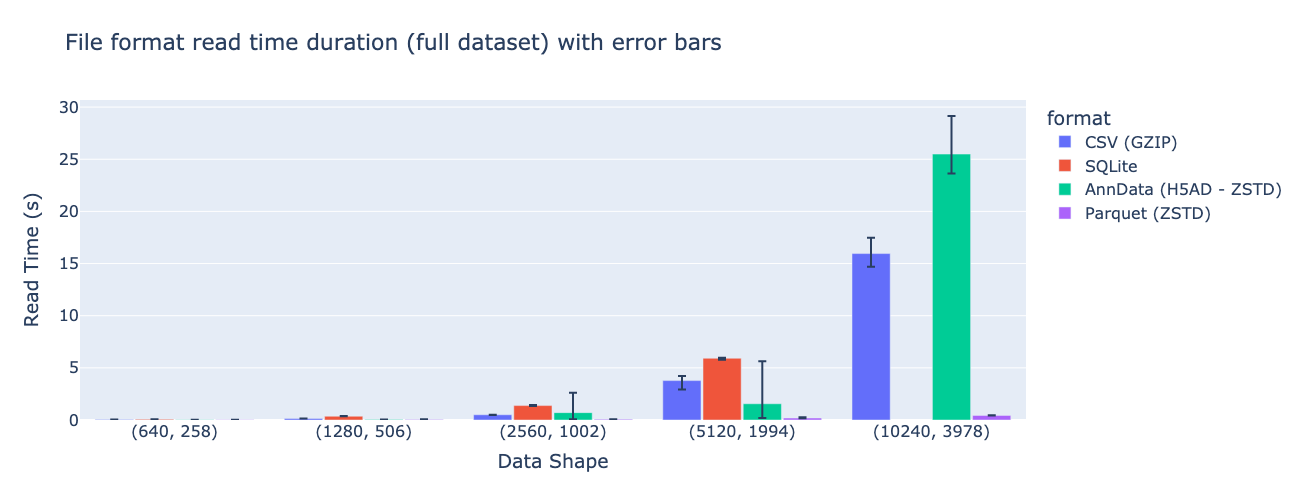
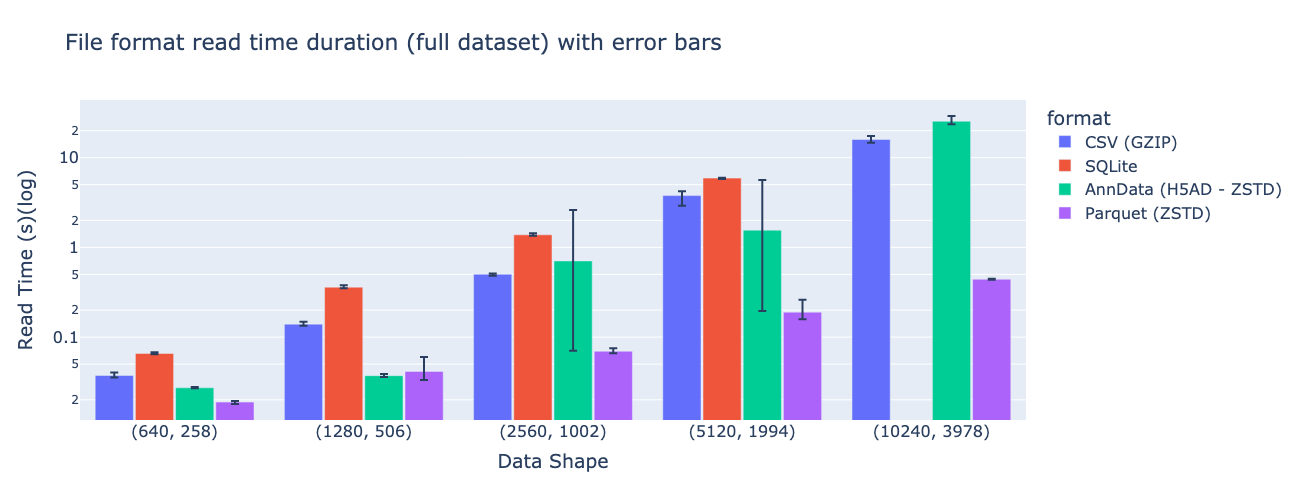
updated plot titles

diff --git a/notebooks/parquet_analysis.py b/notebooks/parquet_analysis.py
@@ -1245,9 +1245,10 @@ fig = px.bar(
     error_y="err_plus",   # max - mean
     error_y_minus="err_minus",  # mean - min
    category_orders={key: rev_order, "format": list(cols.keys())},
-    labels={key: "Data Shape", "mean": "Read Time (s)"},
+    labels={key: "Data Shape", "mean": "Read Time (s)(log)"},
     width=1300,
     title="File format read time duration (full dataset) with error bars",
+    log_y=True
 )
 
 # Styling (no markers in bar charts)
@@ -1261,7 +1262,7 @@ fig.update_layout(
 )
 
 
-pio.write_image(fig, (img_file := file_read_time_all_image.replace(".png", "-reduced-nonfacet.png")))
+pio.write_image(fig, (img_file := file_read_time_all_image.replace(".png", "-reduced-nonfacet-bar.png")))
 Image(url=img_file)
 
 # + papermill={"duration": 0.260285, "end_time": "2025-09-03T21:57:22.537386", "exception": false, "start_time": "2025-09-03T21:57:22.277101", "status": "completed"}
@@ -1521,3 +1522,86 @@ generate_format_comparison_plot(
     save_file=file_read_time_write_and_read_time_image.replace(".png", "-reduced.png"),
 )
 Image(url=file_read_time_write_and_read_time_image.replace(".png", "-reduced.png"))
+
+# +
+key = "dataframe_shape (rows, cols)"
+
+# Use your reduced set (adjust if you want more/less)
+cols = {
+    "CSV (GZIP)": (
+        "csv_write_and_read_time (secs) mean",
+        "csv_write_and_read_time (secs) min",
+        "csv_write_and_read_time (secs) max",
+    ),
+    "SQLite": (
+        "sqlite_write_and_read_time (secs) mean",
+        "sqlite_write_and_read_time (secs) min",
+        "sqlite_write_and_read_time (secs) max",
+    ),
+    "AnnData (H5AD - ZSTD)": (
+        "anndata_h5ad_zstd_write_and_read_time (secs) mean",
+        "anndata_h5ad_zstd_write_and_read_time (secs) min",
+        "anndata_h5ad_zstd_write_and_read_time (secs) max",
+    ),
+    "Parquet (ZSTD)": (
+        "parquet_zstd_write_and_read_time (secs) mean",
+        "parquet_zstd_write_and_read_time (secs) min",
+        "parquet_zstd_write_and_read_time (secs) max",
+    ),
+}
+
+# Build long dataframe with mean/min/max → error bars
+records = []
+for fmt, (mean_col, min_col, max_col) in cols.items():
+    tmp = result[[key, mean_col, min_col, max_col]].copy()
+    tmp["format"] = fmt
+    tmp.rename(
+        columns={mean_col: "mean", min_col: "min", max_col: "max"},
+        inplace=True,
+    )
+    records.append(tmp)
+
+long = pd.concat(records, ignore_index=True).dropna(subset=["mean"])
+
+# Error bars: distance from mean to max/min
+long["err_plus"] = (long["max"] - long["mean"]).clip(lower=0)
+long["err_minus"] = (long["mean"] - long["min"]).clip(lower=0)
+
+# Preserve your original x ordering (reversed)
+x_order = result[key].iloc[::-1].drop_duplicates().tolist()
+pos = {cat: i for i, cat in enumerate(x_order)}
+long_sorted = long.assign(xpos=long[key].map(pos)).sort_values(["format", "xpos"])
+
+rev_order = x_order[::-1] 
+
+fig = px.bar(
+    long_sorted,
+    x=key,                # categories (data shapes)
+    y="mean",             # bar height (read time)
+    color="format",       # one bar per format within each category
+    barmode="group",
+    error_y="err_plus",   # max - mean
+    error_y_minus="err_minus",  # mean - min
+   category_orders={key: rev_order, "format": list(cols.keys())},
+    labels={key: "Data Shape", "mean": "Write and read time (s)(log)"},
+    width=1300,
+    title="File format write and read time duration (full dataset) with error bars",
+    log_y=True
+)
+
+# Styling (no markers in bar charts)
+fig.update_layout(
+    legend=dict(x=1.02, y=1, xanchor="left", yanchor="top",
+                bgcolor="rgba(255,255,255,0.8)"),
+    margin=dict(r=220),
+    font=dict(size=16),
+    bargap=0.15,
+    bargroupgap=0.05,
+)
+
+
+pio.write_image(fig, (img_file := file_read_time_all_image.replace(".png", "-reduced-nonfacet-bar.png")))
+Image(url=img_file)
+# -
+
+
